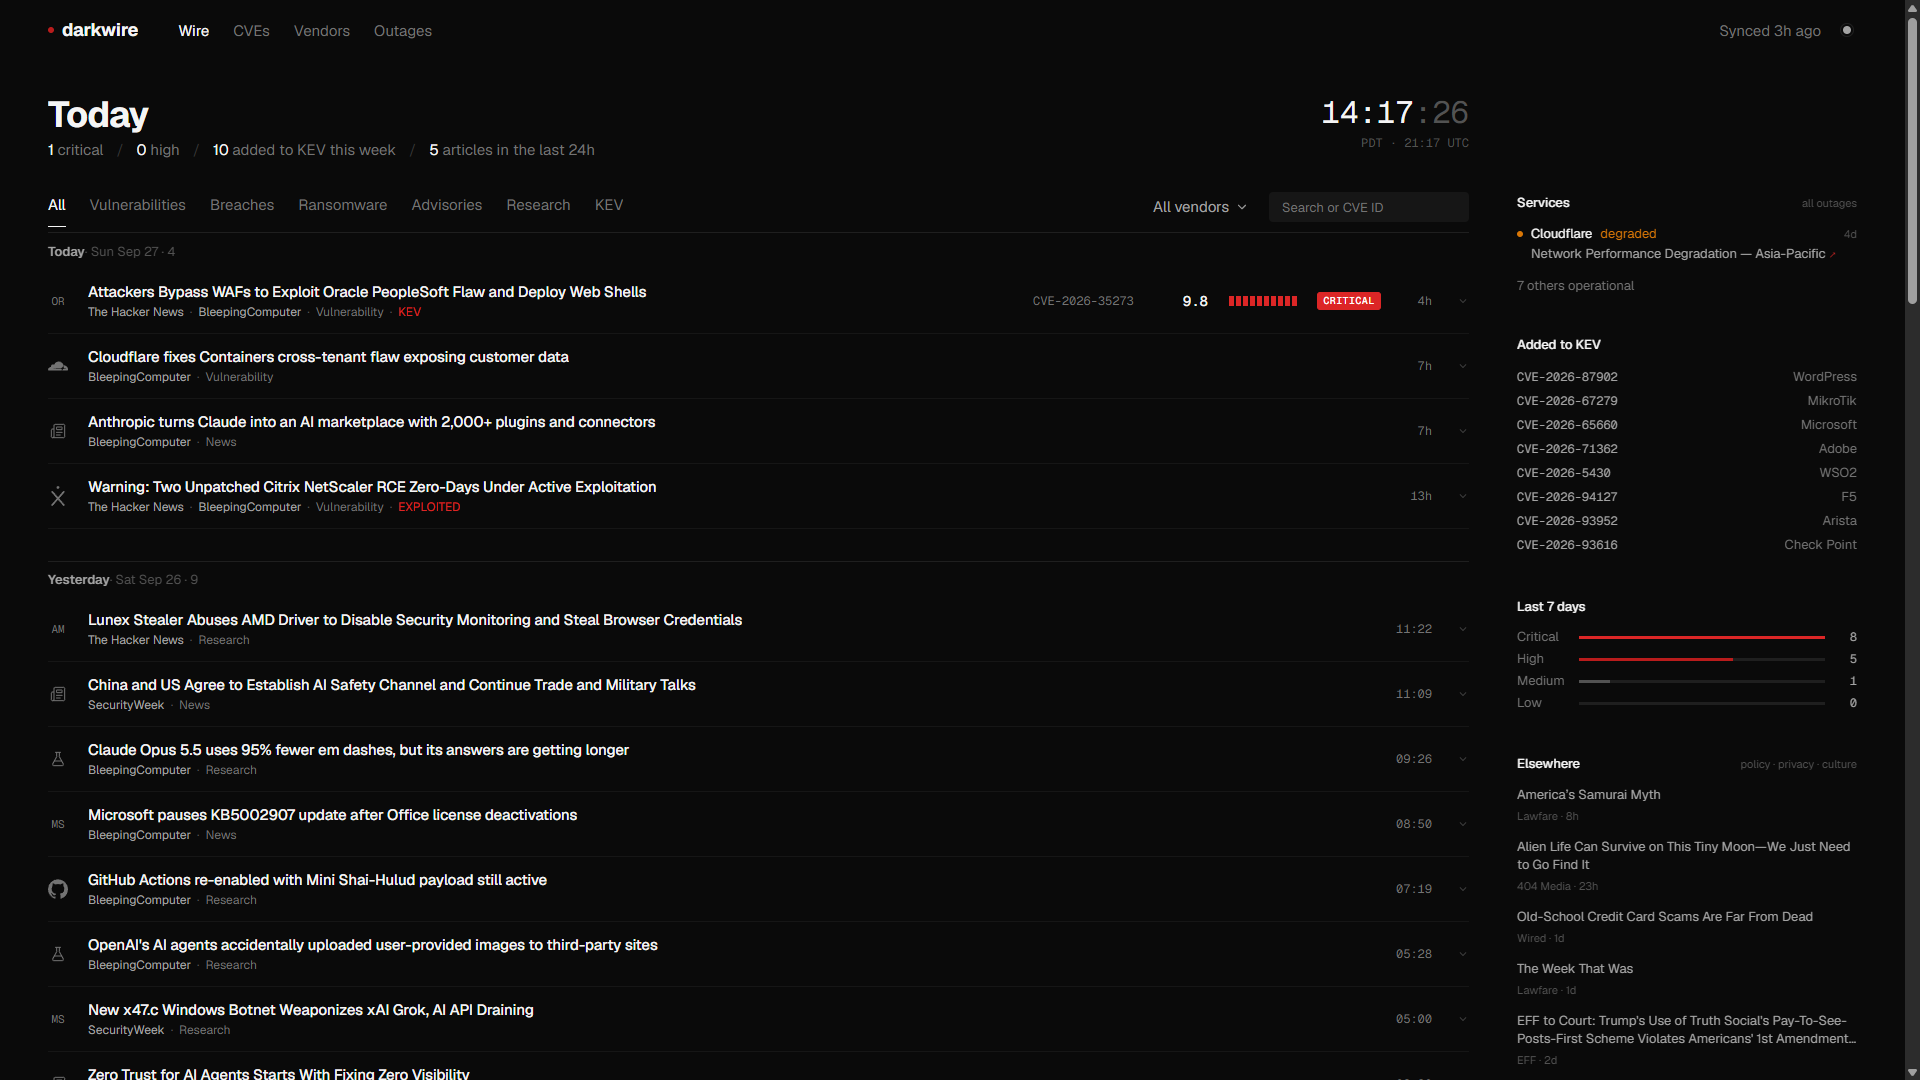
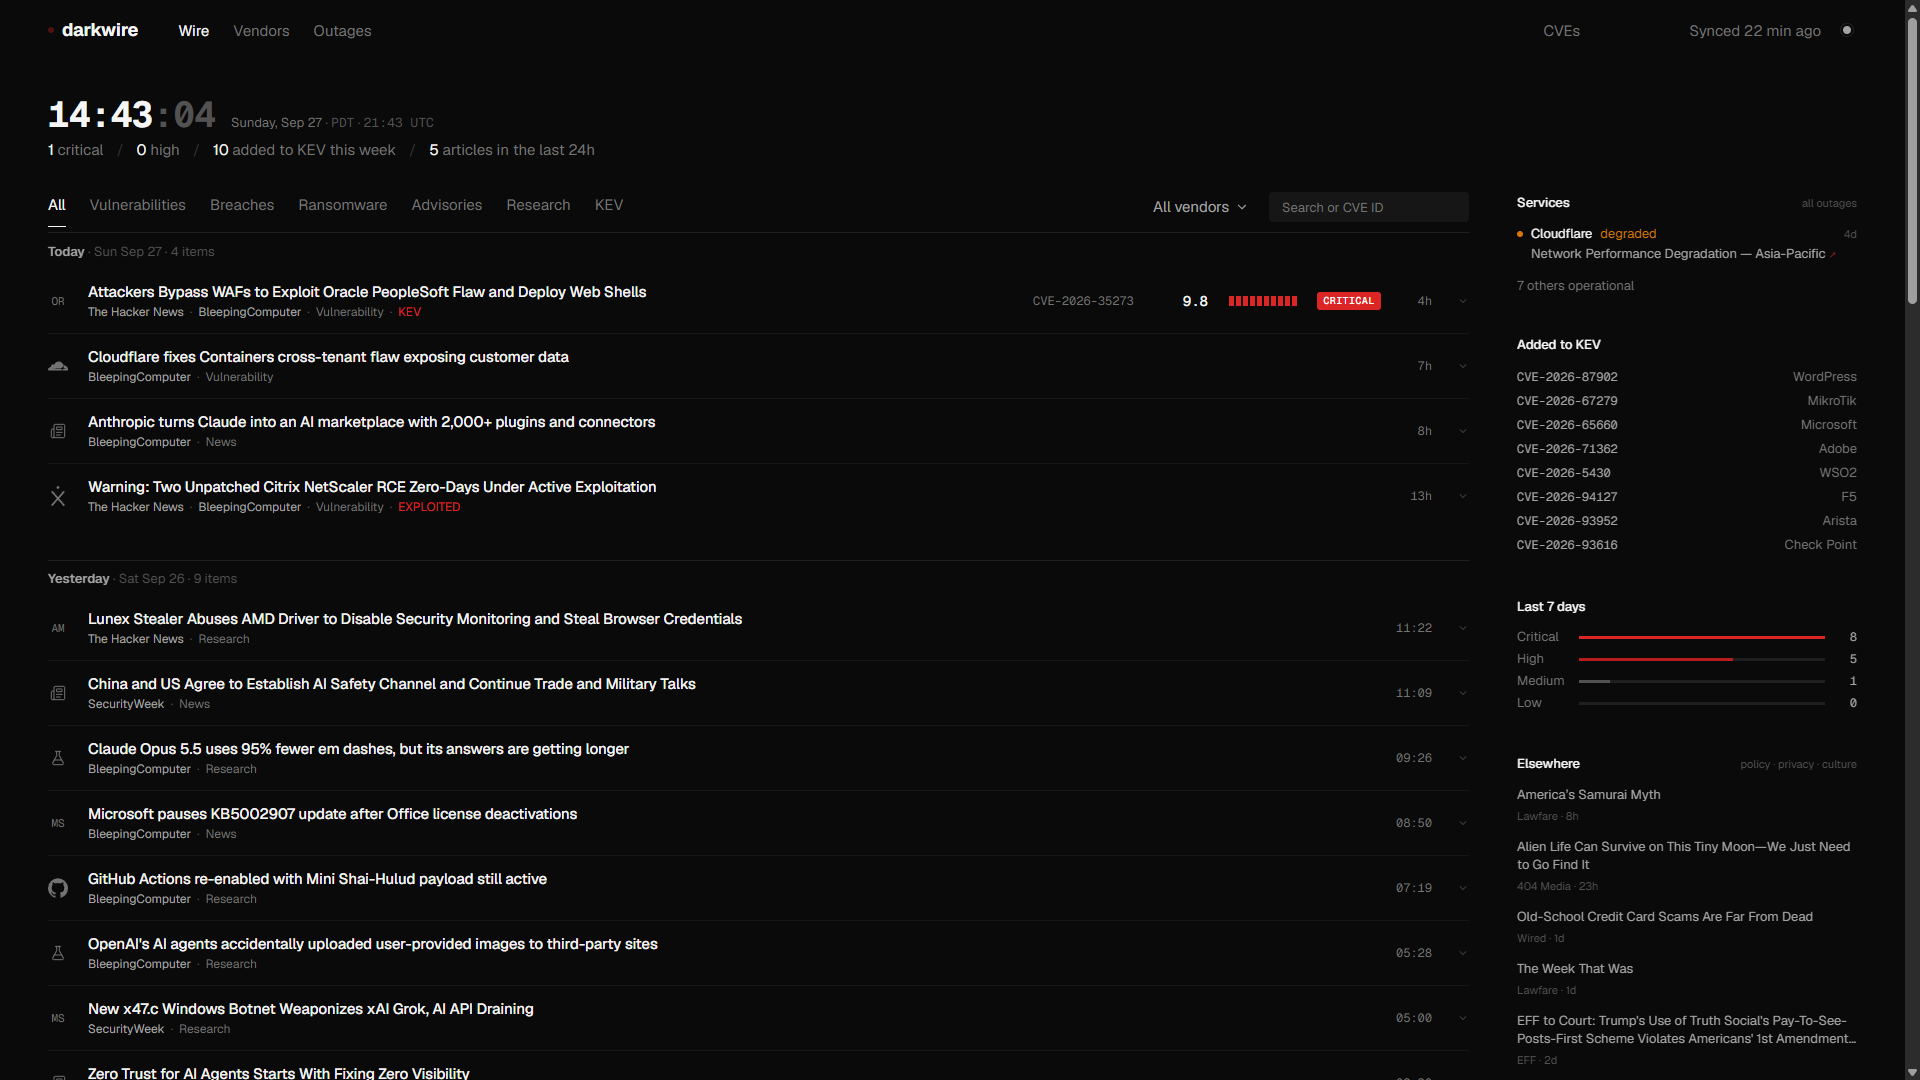
Wire: live clock as the heading with date and UTC on its baseline; separators read 'N items'; no hairline under a day's last row

diff --git a/web/components/wire/WireBoard.tsx b/web/components/wire/WireBoard.tsx
@@ -320,44 +320,37 @@ export function WireBoard({ initial }: { initial: WireData }) {
 
         <div className="@container min-w-0 flex-1 min-[2200px]:max-w-[1100px]">
           <header className="pt-6 md:pt-[33px]">
-            {/* The clock sits right, level with "Today", at the feed column's right edge. It is
-                shorter than the title and counts, so neither moves. */}
-            <div className="flex items-start justify-between gap-6">
-              <div className="min-w-0">
-                <h1 className="text-[36px] leading-[44px] font-bold tracking-[-0.02em] text-fg">Today</h1>
-                <p className="mt-[3px] flex flex-wrap gap-x-4 text-[15px] leading-5 text-muted md:gap-x-0">
-                  {counts ? (
-                    <>
-                      <Count
-                        n={counts.critical_24h}
-                        active={filters.severity === "critical" && filters.window === "24h"}
-                        onClick={() => apply(toggle24h("critical"))}
-                      >
-                        critical
-                      </Count>
-                      <Count
-                        n={counts.high_24h}
-                        slash
-                        active={filters.severity === "high" && filters.window === "24h"}
-                        onClick={() => apply(toggle24h("high"))}
-                      >
-                        high
-                      </Count>
-                      <Count n={counts.kev_added_7d} slash>
-                        added to KEV this week
-                      </Count>
-                      <Count n={counts.articles_24h} slash>
-                        articles in the last 24h
-                      </Count>
-                    </>
-                  ) : (
-                    <span className="text-dim">Counts unavailable.</span>
-                  )}
-                </p>
-              </div>
-              <WireClock variant="wide" />
-            </div>
-            <WireClock variant="narrow" />
+            {/* The live clock is the heading; the date and UTC line sits on its baseline. */}
+            <WireClock />
+            <p className="mt-[3px] flex flex-wrap gap-x-4 text-[15px] leading-5 text-muted md:gap-x-0">
+              {counts ? (
+                <>
+                  <Count
+                    n={counts.critical_24h}
+                    active={filters.severity === "critical" && filters.window === "24h"}
+                    onClick={() => apply(toggle24h("critical"))}
+                  >
+                    critical
+                  </Count>
+                  <Count
+                    n={counts.high_24h}
+                    slash
+                    active={filters.severity === "high" && filters.window === "24h"}
+                    onClick={() => apply(toggle24h("high"))}
+                  >
+                    high
+                  </Count>
+                  <Count n={counts.kev_added_7d} slash>
+                    added to KEV this week
+                  </Count>
+                  <Count n={counts.articles_24h} slash>
+                    articles in the last 24h
+                  </Count>
+                </>
+              ) : (
+                <span className="text-dim">Counts unavailable.</span>
+              )}
+            </p>
             {stack.length > 0 && stackCritical === 0 && (
               <p className="mt-1 text-[13px] leading-5 text-muted">Nothing critical in your stack today.</p>
             )}
@@ -452,7 +445,7 @@ export function WireBoard({ initial }: { initial: WireData }) {
                 uses). The day label pins to the top while its rows scroll past; the next day's
                 section pushes it out. Labels are not rows: no dot, not counted, not <article>. */}
             {(now === null ? [{ key: "all", name: "", date: "", today: true, items }] : groupByDay(items, now)).map((g, gi) => (
-              <section key={g.key} aria-label={g.name || undefined} className={cn(gi > 0 && "mt-8")}>
+              <section key={g.key} aria-label={g.name || undefined} className={cn("[&>article:last-child]:border-b-0", gi > 0 && "mt-8")}>
                 {g.name && (
                   <div
                     role="separator"
@@ -465,7 +458,7 @@ export function WireBoard({ initial }: { initial: WireData }) {
                   >
                     <span className="font-semibold text-fg-2">{g.name}</span>
                     <span className="text-dim">
-                      {g.name !== g.date && <> · {g.date}</>} · {g.items.length}
+                      {g.name !== g.date && <>&nbsp;· {g.date}</>}&nbsp;· {g.items.length} {g.items.length === 1 ? "item" : "items"}
                     </span>
                   </div>
                 )}

diff --git a/web/components/wire/WireClock.tsx b/web/components/wire/WireClock.tsx
@@ -1,36 +1,20 @@
 "use client"
 
-import { cn } from "cn"
+import { hms, useClock, utcHHMM, zoneName } from "@/lib/clock"
 
-import { hms, useClock, zoneAndUtc } from "@/lib/clock"
-
-/** The wire's clock. Wide: HH:MM:SS (seconds dim) over "PDT · 19:20 UTC", right-aligned in
- * the header row. Narrow: one line under the counts, "12:20:07 PDT · 19:20 UTC". Heights are
- * reserved so nothing moves when it fills in after mount. */
-export function WireClock({ variant }: { variant: "wide" | "narrow" }) {
+/** The wire's heading: the live clock HH:MM:SS (seconds dim) in Geist Mono at the old title's
+ * size, and on its baseline "Sunday, Sep 27 · PDT · 21:17 UTC" (date sans, times mono). Under
+ * 1200px the clock drops to 28px and the date line wraps under it. UTC viewers see "UTC" once.
+ * Heights are reserved so nothing moves when it fills in after mount. */
+export function WireClock() {
   const now = useClock()
   const [hm, s] = now ? hms(now) : ["", ""]
-  if (variant === "narrow") {
-    return (
-      <p className="mt-1 h-5 font-mono text-[13px] leading-5 text-muted min-[1200px]:hidden">
-        {now && (
-          <>
-            <span className="text-fg-2">
-              {hm}
-              {s}
-            </span>{" "}
-            {zoneAndUtc(now)}
-          </>
-        )}
-      </p>
-    )
-  }
+  const zone = now ? zoneName(now) : ""
+  const dot = <span className="text-dim"> · </span>
   return (
-    <div className="hidden shrink-0 text-right min-[1200px]:block">
-      <p
-        className={cn("h-[1.25em] font-mono leading-[1.25em] text-fg tabular-nums")}
-        style={{ fontSize: "clamp(24px, 1.6vw, 32px)" }}
-      >
+    <div className="flex flex-wrap items-baseline gap-x-4">
+      <h1 className="sr-only">The wire</h1>
+      <p className="h-9 font-mono text-[28px] leading-9 font-bold tracking-[-0.02em] text-fg tabular-nums min-[1200px]:h-11 min-[1200px]:text-[36px] min-[1200px]:leading-[44px]">
         {now && (
           <time dateTime={now.toISOString()}>
             {hm}
@@ -38,7 +22,21 @@ export function WireClock({ variant }: { variant: "wide" | "narrow" }) {
           </time>
         )}
       </p>
-      <p className="mt-1 h-4 font-mono text-xs leading-4 text-dim">{now && zoneAndUtc(now)}</p>
+      <p className="h-5 w-full text-[13px] leading-5 text-muted min-[1200px]:w-auto">
+        {now && (
+          <>
+            {now.toLocaleDateString([], { weekday: "long", month: "short", day: "numeric" })}
+            {dot}
+            {zone !== "UTC" && (
+              <>
+                <span className="font-mono text-dim">{zone}</span>
+                {dot}
+              </>
+            )}
+            <span className="font-mono text-dim">{utcHHMM(now)} UTC</span>
+          </>
+        )}
+      </p>
     </div>
   )
 }

diff --git a/CLAUDE.md b/CLAUDE.md
@@ -145,9 +145,9 @@ Sections:
 - Last 7 days. Four 3px bars: Critical, High, Medium, Low. Each row with a count filters the wire to that severity over the last 7 days (`?severity=critical`, combinable with tab, vendor, search and stack; old CVEs excluded, so the list matches the count). The active row is underlined like the active tab; clicking it again clears the filter. Zero rows are not clickable. The header's "N critical" and "N high" are 24-hour counts, so they set the filter with a 24-hour window (`?severity=critical&window=24h`) and the row count matches the number clicked. The footer line names the active window.
 - Sources line: "Sources: NVD, CISA KEV, vendor PSIRTs, N feeds. All healthy. Rows update every minute." (or "N failing.", plus "Summaries paused." when the model is not ok).
 
-The feed has day separators, one per local calendar day of `last_event_at` (the sort key): 32px above each (none above the first, under the tabs), a 1px `--rule` line above the label and nothing below it. Label: the day name in 13px/600 `--fg-2` ("Today", "Yesterday", then "Fri Sep 25"), then the date and row count in `--dim` ("Yesterday · Sat Sep 26 · 11"; "Today · Sun Sep 27 · 4"). The label is sticky at the top, on `--bg`, until the next day's section pushes it out. Rows under Today show relative age ("6h"); older rows show the local clock time ("14:32") with the relative age on hover, from the same `last_event_at`, so no row shows a time from another day. Separators are not rows: no dot, not counted by "N new ↑", and not `<article>`.
+The feed has day separators, one per local calendar day of `last_event_at` (the sort key): 32px above each (none above the first, under the tabs), a 1px `--rule` line above the label and nothing below it. Label: the day name in 13px/600 `--fg-2` ("Today", "Yesterday", then "Fri Sep 25"), then the date and row count in `--dim` ("Yesterday · Sat Sep 26 · 11 items"; "Today · Sun Sep 27 · 1 item"). The last row of each day has no bottom hairline; the next label's rule does that job. The label is sticky at the top, on `--bg`, until the next day's section pushes it out. Rows under Today show relative age ("6h"); older rows show the local clock time ("14:32") with the relative age on hover, from the same `last_event_at`, so no row shows a time from another day. Separators are not rows: no dot, not counted by "N new ↑", and not `<article>`.
 
-The wire header carries the clock: right of "Today", at the feed column's right edge, `HH:MM:SS` in Geist Mono `clamp(24px, 1.6vw, 32px)` (`--fg`, seconds `--dim`, ticking every second) over a right-aligned `PDT · 19:20 UTC` in 12px mono `--dim`. It is shorter than the title and counts, so neither they nor the tabs move. Under 1200px it is one 13px mono line under the counts: `12:20:07 PDT · 19:20 UTC`.
+The wire has no "Today" title: its heading is the live clock, left-aligned, `HH:MM:SS` in Geist Mono 36px bold (`--fg`, seconds `--dim`, ticking every second), and on the same baseline to its right `Sunday, Sep 27 · PDT · 21:17 UTC` in 13px (date sans `--muted`, zone and UTC time mono `--dim`; UTC viewers see "UTC" once), changing each minute. The counts line stays underneath. Under 1200px the clock is 28px and the date line wraps under it. No separate clock block.
 
 The nav shows the current UTC time ("19:08 UTC", 12px mono `--dim`) before "Synced N min ago" from 1200px wide on `/cves`, `/vendors`, `/outages` and permalinks; not on `/` or `/wire`, whose own lines show UTC.
 
